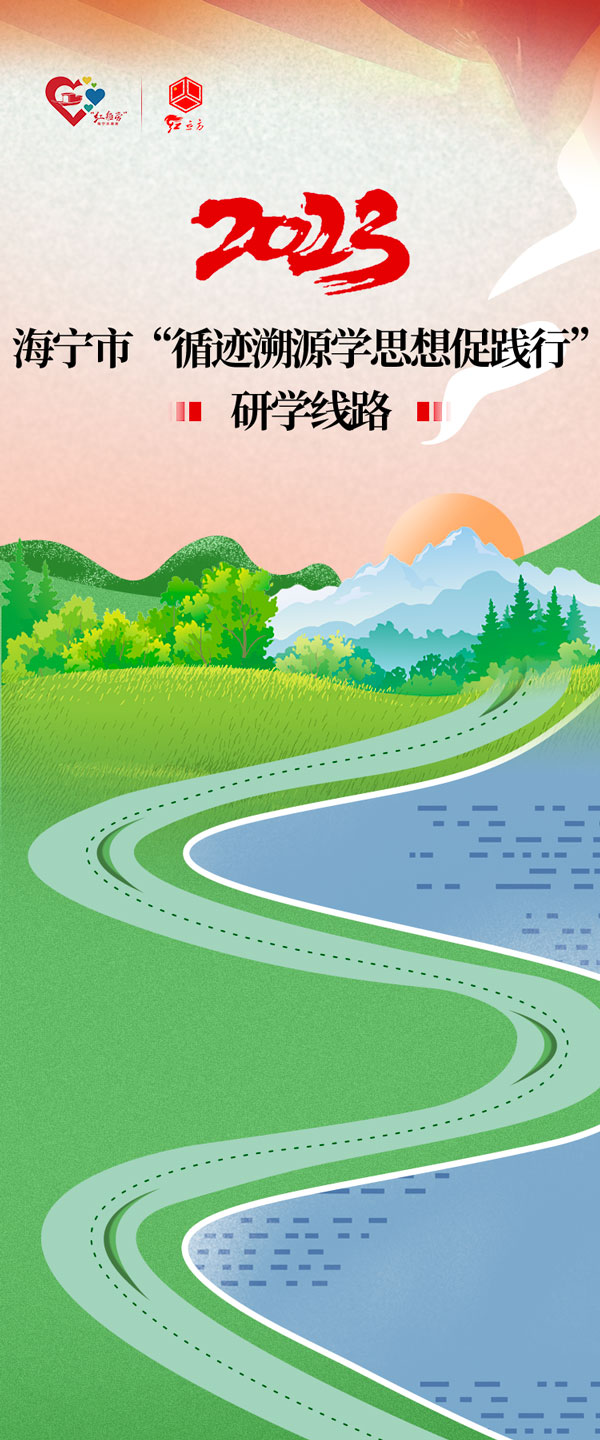
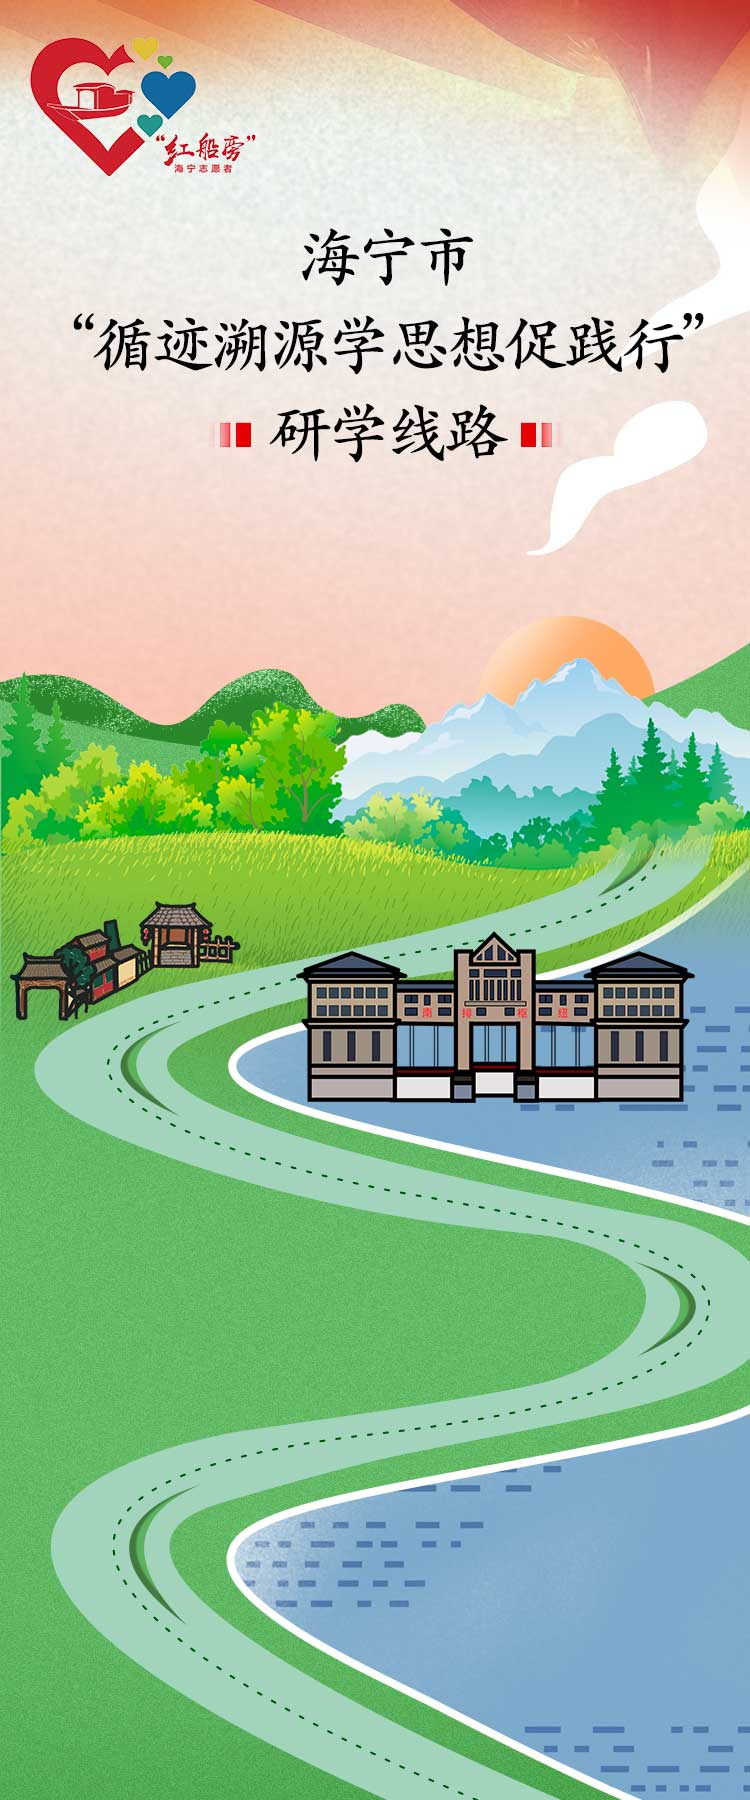
8.10

diff --git a/src/views/sourceRoad/index.vue b/src/views/sourceRoad/index.vue
@@ -8,44 +8,26 @@
         '-moz-background-size': '100% 100%',
     }">
 
-        <div style="position: absolute;top: 133vw;left: 26vw">
-            <van-image width="24vw" :src="yanguan1" />
+        <div>
+            <van-image class="elementMove" width="30vw" :src="leader" />
         </div>
 
-        <div style="position: absolute;top: 122vw;left: 2vw">
-            <van-image width="28vw" :src="yanguan2" />
-        </div>
-
-        <div style="position: absolute;top: 122vw;left: 50vw">
-            <van-image width="14vw" :src="yanguan3" />
-        </div>
-
-        <div style="position: absolute;top: 142vw;left: 24vw">
-            <van-image width="20vw" :src="yanguan" @click="go('yg')" />
-        </div>
-
-        <div style="position: absolute;top: 138vw;left: 1vw">
-            <van-image width="30vw" :src="leader" @click="go('yg')" />
+        <div style="position: absolute;top: 152vw;left: 2vw">
+            <van-image width="60vw" class="buttonStyle" :src="station1" @click="go('yg')" />
         </div>
     </div>
 </template>
 <script>
 import picUrl from '../../assets/sourceRoad/bg.jpg';
-import leader from '../../assets/sourceRoad/leader.gif';
-import yanguan1 from '../../assets/sourceRoad/yanguan1.png';
-import yanguan2 from '../../assets/sourceRoad/yanguan2.png';
-import yanguan3 from '../../assets/sourceRoad/yanguan3.png';
-import yanguan from '../../assets/sourceRoad/yanguan.png';
+import leader from '../../assets/sourceRoad/leader2.gif';
+import station1 from '../../assets/sourceRoad/station1.png';
 export default {
     name: 'sourceRoad',
     data() {
         return {
             picUrl,
             leader,
-            yanguan1,
-            yanguan2,
-            yanguan3,
-            yanguan,
+            station1,
         };
     },
     methods: {
@@ -60,6 +42,28 @@ export default {
 };
 </script>
 <style scoped>
+/* 指定轨迹路径 */
+@keyframes move {
+    0% {
+        transform: translate(2vw, 104vw) scale(0.5);
+    }
+
+    80% {
+        transform: translate(68vw, 110vw) scale(0.86);
+    }
+
+    100% {
+        transform: translate(72vw, 122vw) scale(0.92);
+    }
+}
+
+/* 应用轨迹动画 */
+.elementMove {
+    animation: move 8s linear;
+    animation-fill-mode: forwards;
+}
+
+
 .buttonStyle {
     -webkit-animation-name: scaleDraw;
     /*关键帧名称*/

diff --git a/src/views/sourceRoad/detail.vue b/src/views/sourceRoad/detail.vue
@@ -10,31 +10,21 @@
         }">
             <div style="overflow: scroll;height: 100%;">
                 <div style="padding: 30px 12px;">
-                    <div style="
-            font-size: 20px;
-            text-align: center;
-            font-weight: 600;
-            margin-bottom: 12px;
-            color: black;
-          ">
+                    <div style="font-size: 20px;text-align: center;font-weight: 600;margin-bottom: 12px;color: black;">
                         {{ single.title }}
                     </div>
                     <div v-for="(detail, j) in single.detail" :key="j">
                         <div v-if="detail.type == 'txt'"
                             style="border-radius: 8px;padding: 0 4px;margin-bottom: 4px;background-color: rgba(255, 255, 255, 0.6);">
-                            <div style="
-                        line-height: 26px;
-                        font-weight: 500;
-                        color: #323233;
-                        " v-html="detail.value">
+                            <div style="line-height: 26px;font-weight: 500;color: #323233;" v-html="detail.value">
                             </div>
                         </div>
                         <van-image lazy-load v-else-if="detail.type == 'img'" style="width: 100%; margin-bottom: 4px;"
                             :src="require('./../../assets/sourceRoad/detail/' + detail.value)" fit="contain"
                             @click="getImg(require('./../../assets/sourceRoad/detail/' + detail.value))" />
 
-                        <van-divider v-else-if="detail.type == 'tip'" content-position="left" dashed
-                            style="border-color: #969799;color: black;font-size: 18px;font-weight: bold;">
+                        <van-divider v-else-if="detail.type == 'tip'" dashed
+                            style="border-color: #969799;color: black;font-size: 18px;font-weight: 500;">
                             {{ detail.value }}
                         </van-divider>
                     </div>
@@ -44,7 +34,7 @@
     </div>
 </template>
 <script>
-import { Toast, ImagePreview } from 'vant';
+import { ImagePreview } from 'vant';
 import picUrl from '../../assets/sourceRoad/bg2.jpg';
 export default {
     name: 'sourceDetail',
